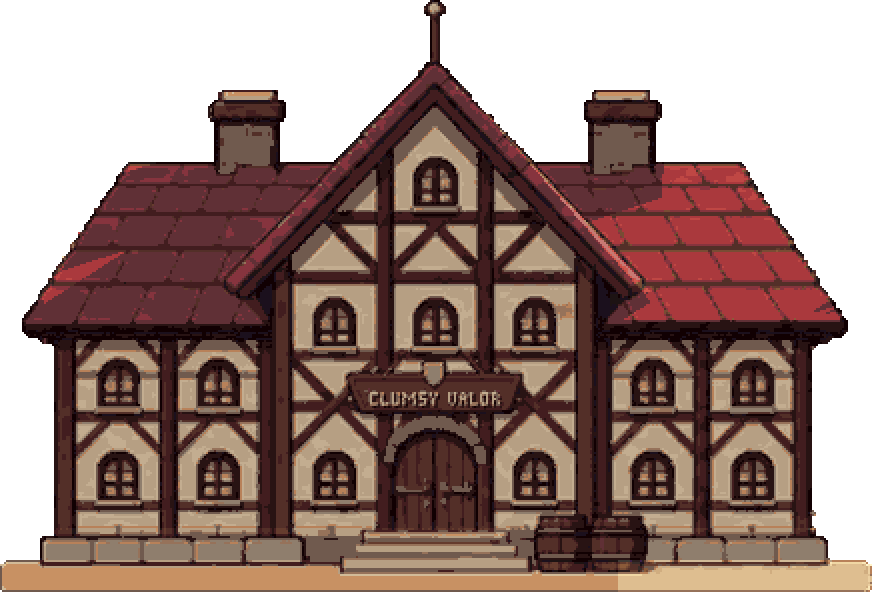
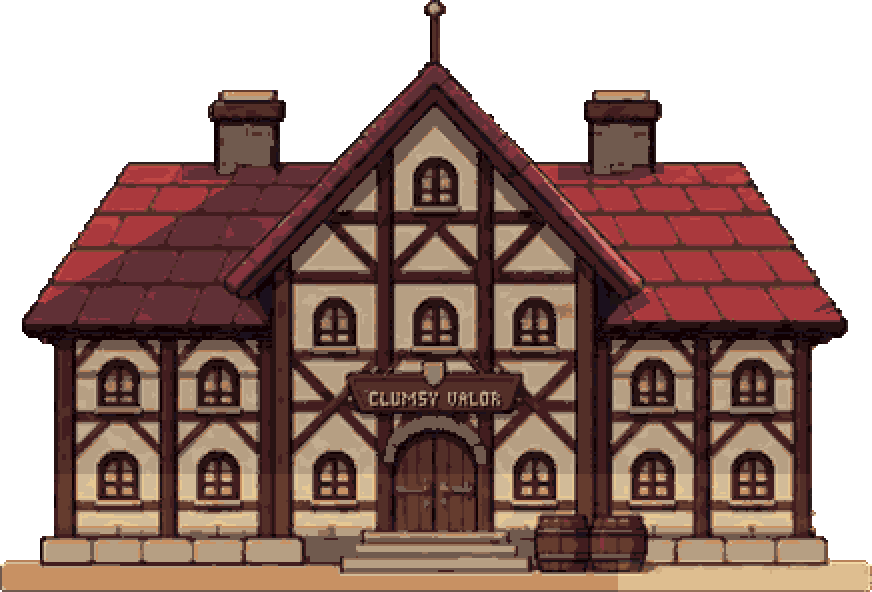
Preview: chimneys stand on the ridge, small parts throw short shadows; bounce light low on the shade side, a rim on the sun-side outline
Claude-Session: https://claude.ai/code/session_01FzDataYedfiK9tzFLcKdoU

diff --git a/tools/light_proxy.py b/tools/light_proxy.py
@@ -17,7 +17,8 @@ the nearest step of the pixel's own ramp:
   sunlit (N.L > .3)                            +1
   sunlit, glancing                             0 (the evening's orange is the ambient's, lit.gd: not a second step)
   shade, facing up (sees the sky)              -1
-  shade, facing front / down                   -2
+  shade, facing front / down                   -2 (-1 on the lowest fifth: light bounced off the sunlit ground)
+  rim: the silhouette's sun-side edge          at least +1 (a backlit edge glows)
   night: -1 everywhere, then each lamp, fire, window: +1 / +2 / +3 by its light on the cell (facing it, unblocked,
          falling off with distance)
   python3 tools/light_proxy.py diagram g_hall OUT.png        the proxy over the sprite (planes by facing)
@@ -104,7 +105,9 @@ def in_sun(ys, xs, Z, T, solid, L, reach=160, t0=2):
 def solids_of(P):
     """the building as true solids ("solids" in the proxy): each the intersection of extrusions -- "xy": a convex
     outline on screen pushed through the depth, "yz": a convex section (screen y, depth z) pushed along x, "z": a depth
-    range [back, front]. Returned as half-spaces a.(x, y, z) <= c in screen cells (y down)."""
+    range [back, front]; "reach": the longest shadow it throws, in cells (a small part's shadow is kept short and
+    tidy, as a pixel artist keeps it: the long thin wedge of a low sun across a whole roof reads as a stain).
+    Returned as half-spaces a.(x, y, z) <= c in screen cells (y down)."""
     out = []
     for so in P.get("solids", []):
         H = []
@@ -120,7 +123,7 @@ def solids_of(P):
         if "yz" in so: poly(so["yz"], (1, 2))
         if "z" in so:
             H.append((np.array([0, 0, -1.0]), -so["z"][0])); H.append((np.array([0, 0, 1.0]), so["z"][1]))
-        out.append((so.get("name", ""), H))
+        out.append((so.get("name", ""), H, so.get("reach", 1e9)))
     return out
 
 
@@ -130,7 +133,8 @@ def sunlit(ys, xs, Z, L, solids, eps=0.75):
     P0 = np.stack([xs.astype(float), ys.astype(float), Z[ys, xs]], -1)
     D = np.array([L[0], -L[1], L[2]])
     hit = np.zeros(len(ys), bool)
-    for _, H in solids:
+    for sol in solids:
+        H = sol[1]; reach = sol[2] if len(sol) > 2 else 1e9
         t0 = np.full(len(ys), -1e9); t1 = np.full(len(ys), 1e9)
         for a, c in H:
             den = a @ D; num = c - P0 @ a
@@ -139,7 +143,7 @@ def sunlit(ys, xs, Z, L, solids, eps=0.75):
             t = num / den
             if den > 0: t1 = np.minimum(t1, t)
             else: t0 = np.maximum(t0, t)
-        hit |= t1 > np.maximum(t0, eps) + 0.25
+        hit |= (t1 > np.maximum(t0, eps) + 0.25) & (np.maximum(t0, eps) < reach)
     return ~hit
 
 
@@ -151,11 +155,29 @@ def levels_sun(N, Z, T, m, solid, h, evening, R=None, solids=None):
     # 1. the big masses: a plane's facing, and what the big solids throw on it
     sun = (ndl > 0.05) & (sunlit(ys, xs, Z, L, solids) if solids else in_sun(ys, xs, Z, T, solid, L))
     lv = np.zeros(len(ys), int)
-    lv[sun & (ndl > 0.3)] = 1
-    lv[sun & (ndl > 0.75)] = 2
     up = n[:, 1] > 0.45
-    lv[~sun & up] = -1
+    lv[sun & (ndl > 0.3)] = 1
+    lv[sun & up & (ndl > 0.2)] = 1                 # a roof that sees the sun at all reads as lit
+    lv[sun & (ndl > 0.75)] = 2
+    lv[~sun & up] = -1                             # shade that sees the sky
     lv[~sun & ~up] = -2
+    # the shade side is not flat: the low parts of a wall take the light bounced off the sunlit ground (a step up)
+    gy = ys.max()
+    lv[~sun & ~up & (ys > gy - 0.2 * (gy - ys.min()))] = -1
+    # rim: the sun-side edge of the silhouette catches the light even when the face behind it is turned away (backlit
+    # edges glow); one cell, on the outline facing the sun and on the tops when the sun is up
+    h_, w_ = m.shape
+    sx = 1 if L[0] > 0.15 else (-1 if L[0] < -0.15 else 0)
+    def outside(dx, dy):
+        X = xs + dx; Y = ys + dy
+        ok = (X >= 0) & (X < w_) & (Y >= 0) & (Y < h_)
+        r = np.ones(len(ys), bool); r[ok] = ~m[Y[ok], X[ok]]
+        return r
+    rim = np.zeros(len(ys), bool)
+    if sx != 0: rim |= outside(sx, 0)
+    if L[1] > 0.2: rim |= outside(0, -1)
+    rim &= ndl > -0.45
+    lv[rim] = np.maximum(lv[rim], 1)
     # 2. the detail, only inside the light: timbers throw a short shadow on the plaster and into the window recesses
     #    (one step: it must not break the mass), and the timber edge turned to the sun catches it (+1)
     if R is not None and R.any():
